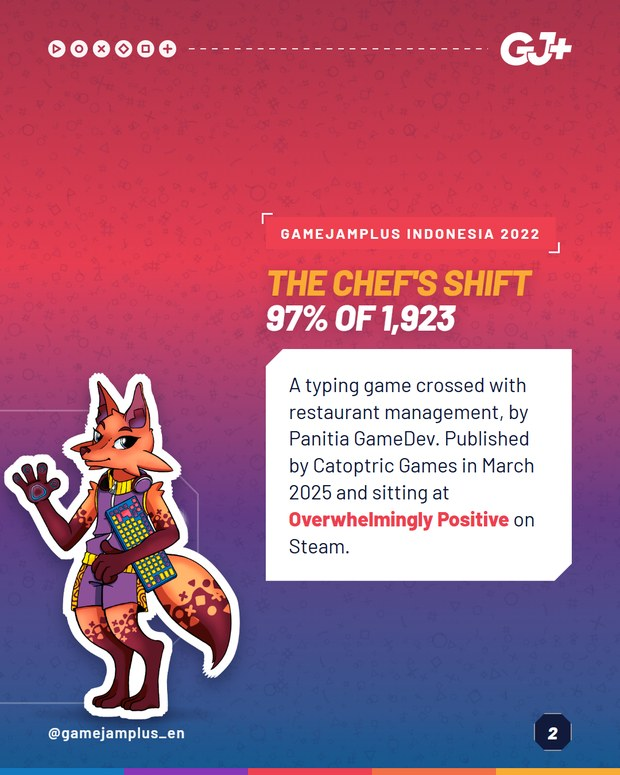
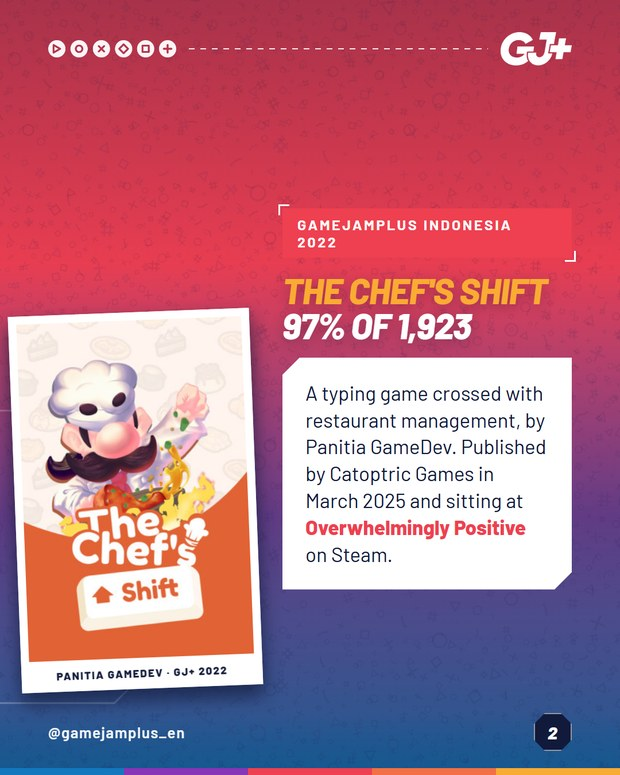
C07 slide 2 ganha a capa do The Chef's Shift
Era o unico dos tres jogos sem capa, e usava mascote no lugar. A arte nao
existia em disco, nem no press kit do Drive, entao veio da Steam com
autorizacao do dono: capsule vertical do app 2390230, 300x450, o mesmo
tamanho das outras duas.

A legenda da moldura ficou "Panitia GameDev - GJ+ 2022", no formato da do
Hellbrella (estudio, edicao), pra as tres lerem igual.

Changed region(s): [[0.0, 0.2477, 0.9194, 0.96], [0.8887, 0.3097, 0.95, 0.3406]]

diff --git a/index.html b/index.html
@@ -1157,15 +1157,15 @@ dialog img{width:min(92vw,620px);max-height:92dvh;object-fit:contain;border-radi
 <article class="c" data-cat="01-conteudos-gj" data-lang="PT" data-busca="c07 - tres jogos da gj+ que estao a venda agora gj+" id="c269">
   <header><div><span class="tagcat">GJ+</span><span class="taglang PT">PT</span><h2>C07 - Tres jogos da GJ+ que estao a venda agora</h2></div>
   <div class="nav"><button aria-label="Anterior" data-d="-1">&#8592;</button><button aria-label="Pr&#243;ximo" data-d="1">&#8594;</button><span class="cont">6</span></div></header>
-  <div class="strip"><figure><img src="img/01-conteudos-gj-pt-c07-tres-jogos-da-gj-a-venda-agora/slide_01.jpg?v=2" alt="C07 - Tres jogos da GJ+ que estao a venda agora 1" width="620" height="775" loading="lazy" decoding="async"><figcaption>01</figcaption></figure><figure><img src="img/01-conteudos-gj-pt-c07-tres-jogos-da-gj-a-venda-agora/slide_02.jpg?v=2" alt="C07 - Tres jogos da GJ+ que estao a venda agora 2" width="620" height="775" loading="lazy" decoding="async"><figcaption>02</figcaption></figure><figure><img src="img/01-conteudos-gj-pt-c07-tres-jogos-da-gj-a-venda-agora/slide_03.jpg?v=2" alt="C07 - Tres jogos da GJ+ que estao a venda agora 3" width="620" height="775" loading="lazy" decoding="async"><figcaption>03</figcaption></figure><figure><img src="img/01-conteudos-gj-pt-c07-tres-jogos-da-gj-a-venda-agora/slide_04.jpg?v=2" alt="C07 - Tres jogos da GJ+ que estao a venda agora 4" width="620" height="775" loading="lazy" decoding="async"><figcaption>04</figcaption></figure><figure><img src="img/01-conteudos-gj-pt-c07-tres-jogos-da-gj-a-venda-agora/slide_05.jpg?v=2" alt="C07 - Tres jogos da GJ+ que estao a venda agora 5" width="620" height="775" loading="lazy" decoding="async"><figcaption>05</figcaption></figure><figure><img src="img/01-conteudos-gj-pt-c07-tres-jogos-da-gj-a-venda-agora/slide_06.jpg?v=2" alt="C07 - Tres jogos da GJ+ que estao a venda agora 6" width="620" height="775" loading="lazy" decoding="async"><figcaption>06</figcaption></figure></div></article>
+  <div class="strip"><figure><img src="img/01-conteudos-gj-pt-c07-tres-jogos-da-gj-a-venda-agora/slide_01.jpg?v=3" alt="C07 - Tres jogos da GJ+ que estao a venda agora 1" width="620" height="775" loading="lazy" decoding="async"><figcaption>01</figcaption></figure><figure><img src="img/01-conteudos-gj-pt-c07-tres-jogos-da-gj-a-venda-agora/slide_02.jpg?v=3" alt="C07 - Tres jogos da GJ+ que estao a venda agora 2" width="620" height="775" loading="lazy" decoding="async"><figcaption>02</figcaption></figure><figure><img src="img/01-conteudos-gj-pt-c07-tres-jogos-da-gj-a-venda-agora/slide_03.jpg?v=3" alt="C07 - Tres jogos da GJ+ que estao a venda agora 3" width="620" height="775" loading="lazy" decoding="async"><figcaption>03</figcaption></figure><figure><img src="img/01-conteudos-gj-pt-c07-tres-jogos-da-gj-a-venda-agora/slide_04.jpg?v=3" alt="C07 - Tres jogos da GJ+ que estao a venda agora 4" width="620" height="775" loading="lazy" decoding="async"><figcaption>04</figcaption></figure><figure><img src="img/01-conteudos-gj-pt-c07-tres-jogos-da-gj-a-venda-agora/slide_05.jpg?v=3" alt="C07 - Tres jogos da GJ+ que estao a venda agora 5" width="620" height="775" loading="lazy" decoding="async"><figcaption>05</figcaption></figure><figure><img src="img/01-conteudos-gj-pt-c07-tres-jogos-da-gj-a-venda-agora/slide_06.jpg?v=3" alt="C07 - Tres jogos da GJ+ que estao a venda agora 6" width="620" height="775" loading="lazy" decoding="async"><figcaption>06</figcaption></figure></div></article>
 <article class="c" data-cat="01-conteudos-gj" data-lang="EN" data-busca="c07 - three gj+ games on sale right now gj+" id="c270">
   <header><div><span class="tagcat">GJ+</span><span class="taglang EN">EN</span><h2>C07 - Three GJ+ games on sale right now</h2></div>
   <div class="nav"><button aria-label="Anterior" data-d="-1">&#8592;</button><button aria-label="Pr&#243;ximo" data-d="1">&#8594;</button><span class="cont">6</span></div></header>
-  <div class="strip"><figure><img src="img/01-conteudos-gj-en-c07-three-gj-games-on-sale-right-now/slide_01.jpg?v=2" alt="C07 - Three GJ+ games on sale right now 1" width="620" height="775" loading="lazy" decoding="async"><figcaption>01</figcaption></figure><figure><img src="img/01-conteudos-gj-en-c07-three-gj-games-on-sale-right-now/slide_02.jpg?v=2" alt="C07 - Three GJ+ games on sale right now 2" width="620" height="775" loading="lazy" decoding="async"><figcaption>02</figcaption></figure><figure><img src="img/01-conteudos-gj-en-c07-three-gj-games-on-sale-right-now/slide_03.jpg?v=2" alt="C07 - Three GJ+ games on sale right now 3" width="620" height="775" loading="lazy" decoding="async"><figcaption>03</figcaption></figure><figure><img src="img/01-conteudos-gj-en-c07-three-gj-games-on-sale-right-now/slide_04.jpg?v=2" alt="C07 - Three GJ+ games on sale right now 4" width="620" height="775" loading="lazy" decoding="async"><figcaption>04</figcaption></figure><figure><img src="img/01-conteudos-gj-en-c07-three-gj-games-on-sale-right-now/slide_05.jpg?v=2" alt="C07 - Three GJ+ games on sale right now 5" width="620" height="775" loading="lazy" decoding="async"><figcaption>05</figcaption></figure><figure><img src="img/01-conteudos-gj-en-c07-three-gj-games-on-sale-right-now/slide_06.jpg?v=2" alt="C07 - Three GJ+ games on sale right now 6" width="620" height="775" loading="lazy" decoding="async"><figcaption>06</figcaption></figure></div></article>
+  <div class="strip"><figure><img src="img/01-conteudos-gj-en-c07-three-gj-games-on-sale-right-now/slide_01.jpg?v=3" alt="C07 - Three GJ+ games on sale right now 1" width="620" height="775" loading="lazy" decoding="async"><figcaption>01</figcaption></figure><figure><img src="img/01-conteudos-gj-en-c07-three-gj-games-on-sale-right-now/slide_02.jpg?v=3" alt="C07 - Three GJ+ games on sale right now 2" width="620" height="775" loading="lazy" decoding="async"><figcaption>02</figcaption></figure><figure><img src="img/01-conteudos-gj-en-c07-three-gj-games-on-sale-right-now/slide_03.jpg?v=3" alt="C07 - Three GJ+ games on sale right now 3" width="620" height="775" loading="lazy" decoding="async"><figcaption>03</figcaption></figure><figure><img src="img/01-conteudos-gj-en-c07-three-gj-games-on-sale-right-now/slide_04.jpg?v=3" alt="C07 - Three GJ+ games on sale right now 4" width="620" height="775" loading="lazy" decoding="async"><figcaption>04</figcaption></figure><figure><img src="img/01-conteudos-gj-en-c07-three-gj-games-on-sale-right-now/slide_05.jpg?v=3" alt="C07 - Three GJ+ games on sale right now 5" width="620" height="775" loading="lazy" decoding="async"><figcaption>05</figcaption></figure><figure><img src="img/01-conteudos-gj-en-c07-three-gj-games-on-sale-right-now/slide_06.jpg?v=3" alt="C07 - Three GJ+ games on sale right now 6" width="620" height="775" loading="lazy" decoding="async"><figcaption>06</figcaption></figure></div></article>
 <article class="c" data-cat="01-conteudos-gj" data-lang="ES" data-busca="c07 - tres juegos de la gj+ a la venta ahora gj+" id="c271">
   <header><div><span class="tagcat">GJ+</span><span class="taglang ES">ES</span><h2>C07 - Tres juegos de la GJ+ a la venta ahora</h2></div>
   <div class="nav"><button aria-label="Anterior" data-d="-1">&#8592;</button><button aria-label="Pr&#243;ximo" data-d="1">&#8594;</button><span class="cont">6</span></div></header>
-  <div class="strip"><figure><img src="img/01-conteudos-gj-es-c07-tres-juegos-de-la-gj-a-la-venta-ahora/slide_01.jpg?v=2" alt="C07 - Tres juegos de la GJ+ a la venta ahora 1" width="620" height="775" loading="lazy" decoding="async"><figcaption>01</figcaption></figure><figure><img src="img/01-conteudos-gj-es-c07-tres-juegos-de-la-gj-a-la-venta-ahora/slide_02.jpg?v=2" alt="C07 - Tres juegos de la GJ+ a la venta ahora 2" width="620" height="775" loading="lazy" decoding="async"><figcaption>02</figcaption></figure><figure><img src="img/01-conteudos-gj-es-c07-tres-juegos-de-la-gj-a-la-venta-ahora/slide_03.jpg?v=2" alt="C07 - Tres juegos de la GJ+ a la venta ahora 3" width="620" height="775" loading="lazy" decoding="async"><figcaption>03</figcaption></figure><figure><img src="img/01-conteudos-gj-es-c07-tres-juegos-de-la-gj-a-la-venta-ahora/slide_04.jpg?v=2" alt="C07 - Tres juegos de la GJ+ a la venta ahora 4" width="620" height="775" loading="lazy" decoding="async"><figcaption>04</figcaption></figure><figure><img src="img/01-conteudos-gj-es-c07-tres-juegos-de-la-gj-a-la-venta-ahora/slide_05.jpg?v=2" alt="C07 - Tres juegos de la GJ+ a la venta ahora 5" width="620" height="775" loading="lazy" decoding="async"><figcaption>05</figcaption></figure><figure><img src="img/01-conteudos-gj-es-c07-tres-juegos-de-la-gj-a-la-venta-ahora/slide_06.jpg?v=2" alt="C07 - Tres juegos de la GJ+ a la venta ahora 6" width="620" height="775" loading="lazy" decoding="async"><figcaption>06</figcaption></figure></div></article>
+  <div class="strip"><figure><img src="img/01-conteudos-gj-es-c07-tres-juegos-de-la-gj-a-la-venta-ahora/slide_01.jpg?v=3" alt="C07 - Tres juegos de la GJ+ a la venta ahora 1" width="620" height="775" loading="lazy" decoding="async"><figcaption>01</figcaption></figure><figure><img src="img/01-conteudos-gj-es-c07-tres-juegos-de-la-gj-a-la-venta-ahora/slide_02.jpg?v=3" alt="C07 - Tres juegos de la GJ+ a la venta ahora 2" width="620" height="775" loading="lazy" decoding="async"><figcaption>02</figcaption></figure><figure><img src="img/01-conteudos-gj-es-c07-tres-juegos-de-la-gj-a-la-venta-ahora/slide_03.jpg?v=3" alt="C07 - Tres juegos de la GJ+ a la venta ahora 3" width="620" height="775" loading="lazy" decoding="async"><figcaption>03</figcaption></figure><figure><img src="img/01-conteudos-gj-es-c07-tres-juegos-de-la-gj-a-la-venta-ahora/slide_04.jpg?v=3" alt="C07 - Tres juegos de la GJ+ a la venta ahora 4" width="620" height="775" loading="lazy" decoding="async"><figcaption>04</figcaption></figure><figure><img src="img/01-conteudos-gj-es-c07-tres-juegos-de-la-gj-a-la-venta-ahora/slide_05.jpg?v=3" alt="C07 - Tres juegos de la GJ+ a la venta ahora 5" width="620" height="775" loading="lazy" decoding="async"><figcaption>05</figcaption></figure><figure><img src="img/01-conteudos-gj-es-c07-tres-juegos-de-la-gj-a-la-venta-ahora/slide_06.jpg?v=3" alt="C07 - Tres juegos de la GJ+ a la venta ahora 6" width="620" height="775" loading="lazy" decoding="async"><figcaption>06</figcaption></figure></div></article>
 <article class="c" data-cat="01-conteudos-gj" data-lang="PT" data-busca="e19 - ods vale trofeu gj+" id="c272">
   <header><div><span class="tagcat">GJ+</span><span class="taglang PT">PT</span><h2>E19 - ODS vale trofeu</h2></div>
   <div class="nav"><button aria-label="Anterior" data-d="-1">&#8592;</button><button aria-label="Pr&#243;ximo" data-d="1">&#8594;</button><span class="cont">6</span></div></header>

diff --git a/p/c07-es/index.html b/p/c07-es/index.html
@@ -10,7 +10,7 @@
 <meta property="og:site_name" content="GameJamPlus · carrosséis">
 <meta property="og:title" content="C07 - Tres juegos de la GJ+ a la venta ahora">
 <meta property="og:description" content="The Chef's Shift salió de GameJamPlus Indonesia 2022 y está con 97% de 1.923 reseñas en Steam. Hellbrella salió de la GJ+ 24/25 y vendió 3 mil copias en...">
-<meta property="og:image" content="https://gamejamplus-carrosseis.vercel.app/img/01-conteudos-gj-es-c07-tres-juegos-de-la-gj-a-la-venta-ahora/slide_01.jpg?v=2">
+<meta property="og:image" content="https://gamejamplus-carrosseis.vercel.app/img/01-conteudos-gj-es-c07-tres-juegos-de-la-gj-a-la-venta-ahora/slide_01.jpg?v=3">
 <meta property="og:url" content="https://gamejamplus-carrosseis.vercel.app/p/c07-es/">
 <meta name="twitter:card" content="summary_large_image">
 <link rel="preconnect" href="https://fonts.googleapis.com">
@@ -68,7 +68,7 @@ h1{font-size:23px;font-weight:800;letter-spacing:-.5px;margin:8px 0 4px;line-hei
   <p class="sub">6 slides</p>
 
   <div class="palco">
-    <img id="sl" src="../../img/01-conteudos-gj-es-c07-tres-juegos-de-la-gj-a-la-venta-ahora/slide_01.jpg?v=2" alt="C07 - Tres juegos de la GJ+ a la venta ahora 1">
+    <img id="sl" src="../../img/01-conteudos-gj-es-c07-tres-juegos-de-la-gj-a-la-venta-ahora/slide_01.jpg?v=3" alt="C07 - Tres juegos de la GJ+ a la venta ahora 1">
     <button class="seta e" type="button" aria-label="Anterior">←</button>
     <button class="seta d" type="button" aria-label="Próximo">→</button>
     <span class="cont"><b id="n">1</b>/6</span>
@@ -87,7 +87,7 @@ h1{font-size:23px;font-weight:800;letter-spacing:-.5px;margin:8px 0 4px;line-hei
   <p class="rod">Uso interno, para revisão.</p>
 </div>
 <script>
-const S=["../../img/01-conteudos-gj-es-c07-tres-juegos-de-la-gj-a-la-venta-ahora/slide_01.jpg?v=2","../../img/01-conteudos-gj-es-c07-tres-juegos-de-la-gj-a-la-venta-ahora/slide_02.jpg?v=2","../../img/01-conteudos-gj-es-c07-tres-juegos-de-la-gj-a-la-venta-ahora/slide_03.jpg?v=2","../../img/01-conteudos-gj-es-c07-tres-juegos-de-la-gj-a-la-venta-ahora/slide_04.jpg?v=2","../../img/01-conteudos-gj-es-c07-tres-juegos-de-la-gj-a-la-venta-ahora/slide_05.jpg?v=2","../../img/01-conteudos-gj-es-c07-tres-juegos-de-la-gj-a-la-venta-ahora/slide_06.jpg?v=2"];
+const S=["../../img/01-conteudos-gj-es-c07-tres-juegos-de-la-gj-a-la-venta-ahora/slide_01.jpg?v=3","../../img/01-conteudos-gj-es-c07-tres-juegos-de-la-gj-a-la-venta-ahora/slide_02.jpg?v=3","../../img/01-conteudos-gj-es-c07-tres-juegos-de-la-gj-a-la-venta-ahora/slide_03.jpg?v=3","../../img/01-conteudos-gj-es-c07-tres-juegos-de-la-gj-a-la-venta-ahora/slide_04.jpg?v=3","../../img/01-conteudos-gj-es-c07-tres-juegos-de-la-gj-a-la-venta-ahora/slide_05.jpg?v=3","../../img/01-conteudos-gj-es-c07-tres-juegos-de-la-gj-a-la-venta-ahora/slide_06.jpg?v=3"];
 const LEGTXT="The Chef's Shift salió de GameJamPlus Indonesia 2022 y está con 97% de 1.923 reseñas en Steam. Hellbrella salió de la GJ+ 24/25 y vendió 3 mil copias en menos de 3 semanas por GoGo Games. Mix It! consiguió fondos del Fondo El Fauno, en Costa Rica.\n\nNinguno de los tres existía un viernes por la noche. Se volvieron prototipo en 48 horas en una sede local, y lo que vino después es el recorrido de seis meses que la jam abre para todo equipo que entrega. Comenta si jugaste alguno. La inscripción de jammer de la 11ª edición es gratis y está en el link de la bio.\n\n#GameJamPlus #GameJam #GameDev #IndieDev #IndieGames #GameDevCommunity";
 let i=0;
 const img=document.getElementById('sl'),nn=document.getElementById('n'),dots=document.getElementById('dots');

diff --git a/p/c07-en/index.html b/p/c07-en/index.html
@@ -10,7 +10,7 @@
 <meta property="og:site_name" content="GameJamPlus · carrosséis">
 <meta property="og:title" content="C07 - Three GJ+ games on sale right now">
 <meta property="og:description" content="The Chef's Shift came out of GameJamPlus Indonesia 2022 and sits at 97% of 1,923 reviews on Steam. Hellbrella came out of GJ+ 24/25 and sold 3 thousand...">
-<meta property="og:image" content="https://gamejamplus-carrosseis.vercel.app/img/01-conteudos-gj-en-c07-three-gj-games-on-sale-right-now/slide_01.jpg?v=2">
+<meta property="og:image" content="https://gamejamplus-carrosseis.vercel.app/img/01-conteudos-gj-en-c07-three-gj-games-on-sale-right-now/slide_01.jpg?v=3">
 <meta property="og:url" content="https://gamejamplus-carrosseis.vercel.app/p/c07-en/">
 <meta name="twitter:card" content="summary_large_image">
 <link rel="preconnect" href="https://fonts.googleapis.com">
@@ -68,7 +68,7 @@ h1{font-size:23px;font-weight:800;letter-spacing:-.5px;margin:8px 0 4px;line-hei
   <p class="sub">6 slides</p>
 
   <div class="palco">
-    <img id="sl" src="../../img/01-conteudos-gj-en-c07-three-gj-games-on-sale-right-now/slide_01.jpg?v=2" alt="C07 - Three GJ+ games on sale right now 1">
+    <img id="sl" src="../../img/01-conteudos-gj-en-c07-three-gj-games-on-sale-right-now/slide_01.jpg?v=3" alt="C07 - Three GJ+ games on sale right now 1">
     <button class="seta e" type="button" aria-label="Anterior">←</button>
     <button class="seta d" type="button" aria-label="Próximo">→</button>
     <span class="cont"><b id="n">1</b>/6</span>
@@ -87,7 +87,7 @@ h1{font-size:23px;font-weight:800;letter-spacing:-.5px;margin:8px 0 4px;line-hei
   <p class="rod">Uso interno, para revisão.</p>
 </div>
 <script>
-const S=["../../img/01-conteudos-gj-en-c07-three-gj-games-on-sale-right-now/slide_01.jpg?v=2","../../img/01-conteudos-gj-en-c07-three-gj-games-on-sale-right-now/slide_02.jpg?v=2","../../img/01-conteudos-gj-en-c07-three-gj-games-on-sale-right-now/slide_03.jpg?v=2","../../img/01-conteudos-gj-en-c07-three-gj-games-on-sale-right-now/slide_04.jpg?v=2","../../img/01-conteudos-gj-en-c07-three-gj-games-on-sale-right-now/slide_05.jpg?v=2","../../img/01-conteudos-gj-en-c07-three-gj-games-on-sale-right-now/slide_06.jpg?v=2"];
+const S=["../../img/01-conteudos-gj-en-c07-three-gj-games-on-sale-right-now/slide_01.jpg?v=3","../../img/01-conteudos-gj-en-c07-three-gj-games-on-sale-right-now/slide_02.jpg?v=3","../../img/01-conteudos-gj-en-c07-three-gj-games-on-sale-right-now/slide_03.jpg?v=3","../../img/01-conteudos-gj-en-c07-three-gj-games-on-sale-right-now/slide_04.jpg?v=3","../../img/01-conteudos-gj-en-c07-three-gj-games-on-sale-right-now/slide_05.jpg?v=3","../../img/01-conteudos-gj-en-c07-three-gj-games-on-sale-right-now/slide_06.jpg?v=3"];
 const LEGTXT="The Chef's Shift came out of GameJamPlus Indonesia 2022 and sits at 97% of 1,923 reviews on Steam. Hellbrella came out of GJ+ 24/25 and sold 3 thousand copies in under 3 weeks through GoGo Games. Mix It! landed public funding from Fondo El Fauno in Costa Rica.\n\nNone of the three existed on a Friday night. They became a prototype in 48 hours at a local venue, and what came after is the six month journey the jam opens for every team that delivers. Drop whether you have played any of them. Jammer sign-up for the 11th edition is free and it is in the link in bio.\n\n#GameJamPlus #GameJam #GameDev #IndieDev #IndieGames #GameDevCommunity";
 let i=0;
 const img=document.getElementById('sl'),nn=document.getElementById('n'),dots=document.getElementById('dots');

diff --git a/p/c07-pt/index.html b/p/c07-pt/index.html
@@ -10,7 +10,7 @@
 <meta property="og:site_name" content="GameJamPlus · carrosséis">
 <meta property="og:title" content="C07 - Tres jogos da GJ+ que estao a venda agora">
 <meta property="og:description" content="The Chef's Shift saiu da GameJamPlus Indonésia 2022 e está com 97% de 1.923 avaliações na Steam. A Hellbrella saiu da GJ+ 24/25 e vendeu 3 mil cópias em...">
-<meta property="og:image" content="https://gamejamplus-carrosseis.vercel.app/img/01-conteudos-gj-pt-c07-tres-jogos-da-gj-a-venda-agora/slide_01.jpg?v=2">
+<meta property="og:image" content="https://gamejamplus-carrosseis.vercel.app/img/01-conteudos-gj-pt-c07-tres-jogos-da-gj-a-venda-agora/slide_01.jpg?v=3">
 <meta property="og:url" content="https://gamejamplus-carrosseis.vercel.app/p/c07-pt/">
 <meta name="twitter:card" content="summary_large_image">
 <link rel="preconnect" href="https://fonts.googleapis.com">
@@ -68,7 +68,7 @@ h1{font-size:23px;font-weight:800;letter-spacing:-.5px;margin:8px 0 4px;line-hei
   <p class="sub">6 slides</p>
 
   <div class="palco">
-    <img id="sl" src="../../img/01-conteudos-gj-pt-c07-tres-jogos-da-gj-a-venda-agora/slide_01.jpg?v=2" alt="C07 - Tres jogos da GJ+ que estao a venda agora 1">
+    <img id="sl" src="../../img/01-conteudos-gj-pt-c07-tres-jogos-da-gj-a-venda-agora/slide_01.jpg?v=3" alt="C07 - Tres jogos da GJ+ que estao a venda agora 1">
     <button class="seta e" type="button" aria-label="Anterior">←</button>
     <button class="seta d" type="button" aria-label="Próximo">→</button>
     <span class="cont"><b id="n">1</b>/6</span>
@@ -87,7 +87,7 @@ h1{font-size:23px;font-weight:800;letter-spacing:-.5px;margin:8px 0 4px;line-hei
   <p class="rod">Uso interno, para revisão.</p>
 </div>
 <script>
-const S=["../../img/01-conteudos-gj-pt-c07-tres-jogos-da-gj-a-venda-agora/slide_01.jpg?v=2","../../img/01-conteudos-gj-pt-c07-tres-jogos-da-gj-a-venda-agora/slide_02.jpg?v=2","../../img/01-conteudos-gj-pt-c07-tres-jogos-da-gj-a-venda-agora/slide_03.jpg?v=2","../../img/01-conteudos-gj-pt-c07-tres-jogos-da-gj-a-venda-agora/slide_04.jpg?v=2","../../img/01-conteudos-gj-pt-c07-tres-jogos-da-gj-a-venda-agora/slide_05.jpg?v=2","../../img/01-conteudos-gj-pt-c07-tres-jogos-da-gj-a-venda-agora/slide_06.jpg?v=2"];
+const S=["../../img/01-conteudos-gj-pt-c07-tres-jogos-da-gj-a-venda-agora/slide_01.jpg?v=3","../../img/01-conteudos-gj-pt-c07-tres-jogos-da-gj-a-venda-agora/slide_02.jpg?v=3","../../img/01-conteudos-gj-pt-c07-tres-jogos-da-gj-a-venda-agora/slide_03.jpg?v=3","../../img/01-conteudos-gj-pt-c07-tres-jogos-da-gj-a-venda-agora/slide_04.jpg?v=3","../../img/01-conteudos-gj-pt-c07-tres-jogos-da-gj-a-venda-agora/slide_05.jpg?v=3","../../img/01-conteudos-gj-pt-c07-tres-jogos-da-gj-a-venda-agora/slide_06.jpg?v=3"];
 const LEGTXT="The Chef's Shift saiu da GameJamPlus Indonésia 2022 e está com 97% de 1.923 avaliações na Steam. A Hellbrella saiu da GJ+ 24/25 e vendeu 3 mil cópias em menos de 3 semanas pela GoGo Games. O Mix It! foi aprovado no Fondo El Fauno, na Costa Rica.\n\nNenhum dos três existia numa sexta à noite. Viraram protótipo em 48 horas numa sede local, e o que veio depois é a jornada de seis meses que a jam abre pra todo time que entrega. Comenta se você já jogou algum deles. A inscrição de jammer da 11ª edição é grátis e está no link da bio.\n\n#GameJamPlus #GameJam #GameDev #IndieDev #IndieGames #GameDevCommunity";
 let i=0;
 const img=document.getElementById('sl'),nn=document.getElementById('n'),dots=document.getElementById('dots');
